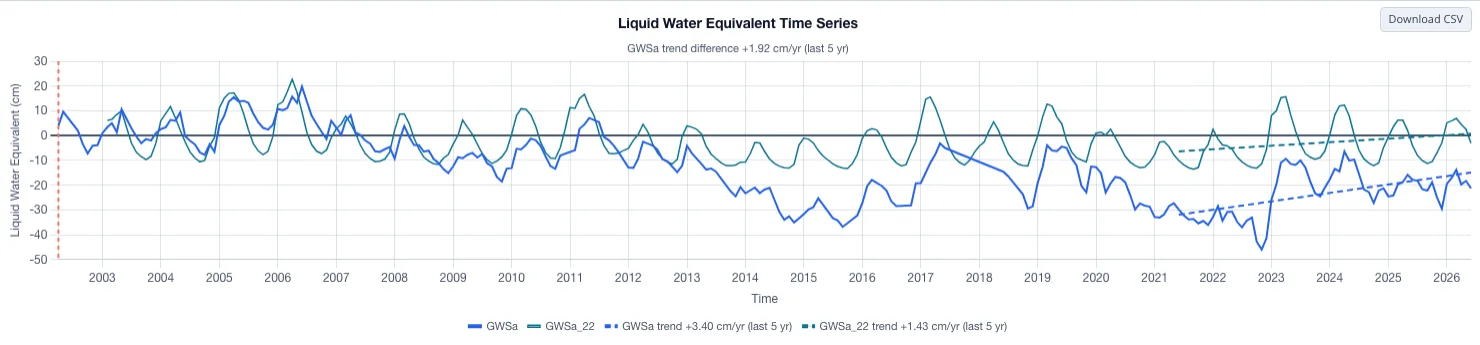
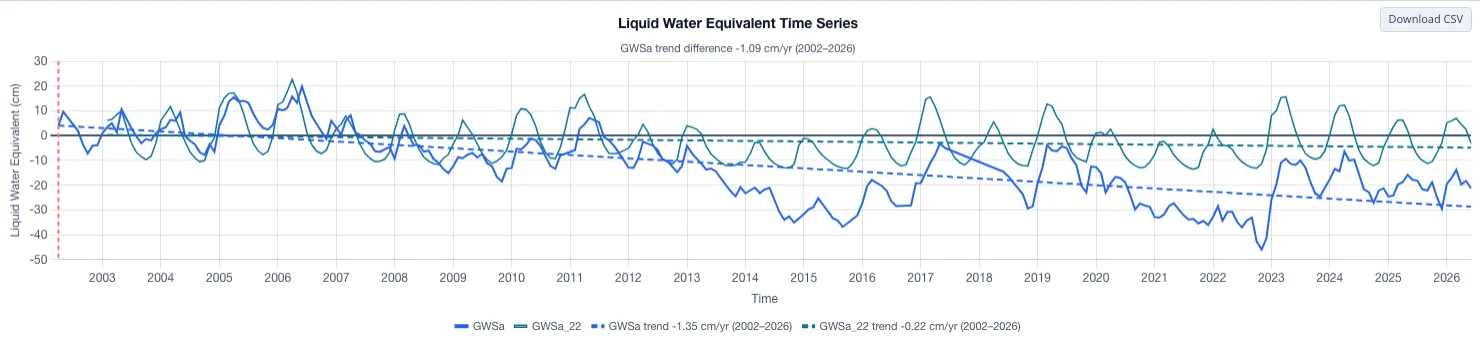
Document the whole-record default for the comparisons
The app now opens a comparison on the whole record in both views, so the
screenshots taken at five years and the text built around them no longer
describe what a reader sees.

Part 3's comparison page gains the reason rather than just the behaviour: the
±0.25 and ±1 boundaries came from the whole-record spread over 322 outlines, so
reading them over five years calls a third of regions extreme where they were
drawn to call a tenth. The window table is reordered to put the default first
and runs down to five years, which is still the right question if you want to
know whether the two have begun to diverge lately.

The global section now carries both maps. At the default the per-cell
difference has geography in it -- ice at both poles, northern India, the
Amazon; stepped down to five years the same map is speckle, which is the
clearest statement of why a cell is not a region. The cell-versus-region table
gains a whole-record row: 9% of aquifers and 15% of cells beyond ±1 cm/yr,
against 32% and 44% over five years.

The Central Valley chart is retaken at the default and reads −1.09 cm/yr
against the +1.92 it read over five years, which carries the window lesson
better as prose than the old figure did on its own.

Part 4's analysis page gains the two defaults and why each measure opens where
it does, including the number that keeps the trend on five years: over the
whole record ±0.5 and ±2 put 59 of 99 outlines in Static and empty Extreme
increase.
[…]

diff --git a/tools/make_screenshots.py b/tools/make_screenshots.py
@@ -221,12 +221,28 @@ def shot_diff_swing(pw) -> None:
 
 
 def shot_diff_global(pw) -> None:
-    """The same trend difference per cell. Both datasets have to be read for
-    every month of the record, so this one is slow."""
+    """The same trend difference per cell, at the window the global view opens
+    a comparison on. Both datasets have to be read for every month of the
+    record, so this one is slow."""
     b, pg = open_app(pw)
     go_global(pg)
     color_by(pg, "trend-difference", wait=LOAD * 5)
     save(pg, "app-diff-global")
+    b.close()
+
+
+def shot_diff_global_5yr(pw) -> None:
+    """The same map stepped down to five years, which is the reason the global
+    view does not open there: per cell the difference is mostly noise."""
+    b, pg = open_app(pw)
+    go_global(pg)
+    color_by(pg, "trend-difference", wait=LOAD * 5)
+    # Down from All to 5 yr, one step per window the record is long enough for.
+    for _ in range(4):
+        pg.locator("#analysis-window-down").click()
+        pg.wait_for_timeout(LOAD * 4)
+    assert pg.locator("#analysis-window-value").inner_text() == "5 yr"
+    save(pg, "app-diff-global-5yr")
     b.close()
 
 
@@ -387,6 +403,7 @@ SHOTS = {
     "diff-agreement": shot_diff_agreement,
     "diff-swing": shot_diff_swing,
     "diff-global": shot_diff_global,
+    "diff-global-5yr": shot_diff_global_5yr,
     "diff-chart": shot_diff_chart,
     "time-control": shot_time_control,
     "gap-fill-control": shot_gap_fill_control,

diff --git a/docs/grace/compare/exploring.es.md b/docs/grace/compare/exploring.es.md
@@ -22,13 +22,15 @@ datos publicados, las dos tendencias de la región mediana difieren en 0.27 cm/a
 a 0.69, y su ciclo estacional de GRACE oscila 0.73 veces lo que el de 2.2.
 
 Elegir una comparación activa **Also show GLDAS 2.2** (mostrar también GLDAS 2.2) en el panel de control y lo mantiene activado, de modo que el
-gráfico lleva ambas series para lo que selecciones a continuación. La vista regional colorea los contornos de las regiones, la vista global
+gráfico lleva ambas series para lo que selecciones a continuación, y pone la **Window** en todo el registro: comparar dos registros es una
+pregunta sobre los registros, y las clases de abajo se trazaron para el registro entero. Mover el selector sigue funcionando y entonces manda tu
+elección. La vista regional colorea los contornos de las regiones, la vista global
 colorea las celdas, y la medida sigue seleccionada al pasar de una a otra. [Análisis de tendencias y diferencias](../app/trends.md) da la
 mecánica: los límites de las clases, el registro mínimo que necesita una región y cómo se promedian sus celdas.
 
 ## El mapa de diferencia de tendencia { #the-trend-difference-map }
 
-![El conjunto Global Aquifers coloreado por la diferencia entre las tendencias de agua subterránea de cinco años de los dos conjuntos de datos](../../static/images/grace/app-diff-regions.webp)
+![El conjunto Global Aquifers coloreado por la diferencia entre las tendencias de agua subterránea de los dos conjuntos de datos sobre todo el registro](../../static/images/grace/app-diff-regions.webp)
 
 Cada región o celda se colorea por la tendencia de GRACE menos la de 2.2 sobre la ventana del encabezado, en cm/año. GRACE es siempre el operando
 izquierdo, sea cual sea el conjunto seleccionado en el panel, así que el signo de la diferencia nunca depende de otro control.
@@ -47,21 +49,22 @@ almacén de agua subterránea solo a través de la corrección mensual de GRACE,
 dirección contraria, donde GRACE tiene el almacenamiento subiendo más rápido. Sobre las 37 cuencas WHYMAP la tendencia de 2.2 es una mediana de
 0.26 de la de GRACE donde el almacenamiento cae y de 0.33 donde sube, así que ambos colores son el mismo efecto.
 
-La ventana importa aquí más que para una sola tendencia. Las ventanas cortas producen tendencias mayores, y la distancia entre los dos conjuntos
-crece con ellas: sobre los contornos de Global Aquifers la diferencia típica más que se duplica, de 0.26 cm/año sobre todo el registro a 0.59
-sobre los últimos cinco años. La clasificación lo sigue:
+Esos límites vienen del registro completo. Sobre los 322 contornos puntuados la diferencia mediana es 0.27 cm/año y el percentil 95 es 1.12, así
+que ±0.25 y ±1 están puestos para marcar como extrema aproximadamente una décima parte de las regiones. Acortar la ventana agranda ambas
+tendencias y con ellas su diferencia — sobre los contornos de Global Aquifers la diferencia típica más que se duplica, de 0.26 cm/año a 0.59 — y
+los mismos límites marcan entonces como extrema a una tercera parte:
 
 | Ventana | GRACE much lower | GRACE lower | Trends agree | GRACE higher | GRACE much higher |
 |:---|:---:|:---:|:---:|:---:|:---:|
-| últimos 5 años | 14 | 18 | 28 | 21 | 18 |
-| últimos 10 años | 8 | 19 | 37 | 20 | 15 |
-| últimos 15 años | 6 | 21 | 42 | 24 | 6 |
+| todo el registro (por defecto) | 5 | 15 | 52 | 23 | 4 |
 | últimos 20 años | 7 | 14 | 50 | 24 | 4 |
-| todo el registro | 5 | 15 | 52 | 23 | 4 |
+| últimos 15 años | 6 | 21 | 42 | 24 | 6 |
+| últimos 10 años | 8 | 19 | 37 | 20 | 15 |
+| últimos 5 años | 14 | 18 | 28 | 21 | 18 |
 
-52 de los 99 acuíferos coinciden sobre todo el registro y 28 sobre los últimos cinco años. Ambas lecturas son correctas para su ventana. Una
-región que cambia de clase al mover la ventana está diciendo que los dos conjuntos difieren sobre una oscilación reciente, que es un problema
-menor que diferir sobre la dirección a largo plazo.
+Ambas lecturas son correctas para su ventana, y una más corta es la pregunta adecuada si quieres saber si los dos conjuntos han empezado a
+divergir últimamente. Lee ahí los extremos con más escepticismo: una región que cambia de clase al acortar la ventana está diciendo que los dos
+difieren sobre una oscilación reciente, que es un problema menor que diferir sobre la dirección a largo plazo.
 
 ## El mapa de concordancia { #the-agreement-map }
 
@@ -123,6 +126,7 @@ La vista global responde las mismas tres preguntas por celda de 1°, y las respu
 
 | Proporción del conjunto en esta condición | Global Aquifers, 99 contornos | celdas de 1° |
 |:---|:---:|:---:|
+| diferencia de tendencia más allá de ±1 cm/año, todo el registro | 9% | 15% |
 | diferencia de tendencia más allá de ±1 cm/año, últimos 5 años | 32% | 44% |
 | correlación por debajo de 0 | 5% | 18% |
 | amplitud estacional de GRACE más de 1.25 veces la de 2.2 | 21% | 45% |
@@ -130,11 +134,18 @@ La vista global responde las mismas tres preguntas por celda de 1°, y las respu
 Una de cada seis celdas terrestres tiene los dos registros yendo opuestos, donde lo hacen cinco de los 99 acuíferos, y casi la mitad de todas las
 celdas tienen el ciclo de GRACE oscilando más que el de 2.2, donde el panorama regional es el contrario.
 
-![Cada celda terrestre coloreada por la diferencia entre las tendencias de agua subterránea de cinco años de los dos conjuntos de datos](../../static/images/grace/app-diff-global.webp)
+![Cada celda terrestre coloreada por la diferencia entre las tendencias de agua subterránea de los dos conjuntos de datos sobre todo el registro](../../static/images/grace/app-diff-global.webp)
 
-El mapa de arriba es lo que eso produce: moteado sobre casi toda la superficie terrestre, celdas rojas y azules alternándose en unos pocos
-cientos de kilómetros, y el único bloque grande de **Trends agree** tendido sobre el Sáhara y la península arábiga, donde ninguno de los dos
-registros se mueve mucho en cinco años.
+Con el valor por defecto el mapa tiene geografía: rojo intenso donde la ruta de GRACE lleva hielo, en Groenlandia, el Ártico canadiense y la
+Patagonia; rojo en el norte de la India, Oriente Medio y Siberia central; azul en el Amazonas, el Congo, el Sahel y el Zambeze. Bájalo a cinco
+años y casi todo eso desaparece:
+
+![El mismo mapa sobre los últimos cinco años, con celdas rojas y azules alternándose en casi toda la superficie terrestre](../../static/images/grace/app-diff-global-5yr.webp)
+
+Moteado sobre casi toda la superficie terrestre, rojo y azul alternándose en unos pocos cientos de kilómetros, y el único bloque grande de
+**Trends agree** tendido sobre el Sáhara y la península arábiga, donde ninguno de los dos registros se mueve mucho en cinco años. Dos pendientes
+ajustadas cada una a 60 meses y luego restadas dejan un número cuyo error es mayor que la diferencia que informa. Un promedio de área elimina casi
+todo eso, y por eso el mapa regional sí merece leerse a cinco años y este no.
 
 Una sola celda lleva el ruido mes a mes que elimina un promedio de área, y del lado de GRACE lleva además el factor de ganancia aplicado a un
 mascon de 3°, así que el valor de una celda descansa sobre la misma medición que el de sus vecinas (ver
@@ -143,14 +154,16 @@ están los patrones grandes, y la vista regional para cualquier cosa que quieras
 
 ## Leer una región frente a su gráfico { #reading-a-region-against-its-chart }
 
-![El Valle Central con la diferencia de tendencia activa: ambos conjuntos en el gráfico, cada uno con su recta ajustada sobre la ventana de cinco años](../../static/images/grace/app-diff-chart.webp)
+![El Valle Central con la diferencia de tendencia activa: ambos conjuntos en el gráfico, cada uno con su recta ajustada sobre todo el registro](../../static/images/grace/app-diff-chart.webp)
 
 Al hacer clic en una región, o en una celda de la vista global, se dibujan ambos conjuntos y se pone bajo el título del gráfico el número que
-hay detrás del color de esa región. El Valle Central de arriba marca "GWSa trend difference +1.92 cm/yr (last 5 yr)", con las dos rectas
-ajustadas de la leyenda en +3.40 y +1.43 cm/año: en los últimos cinco años ambos registros tienen el valle recuperándose de la sequía de
-2021–2022 y GRACE lo tiene recuperándose más del doble de rápido. Sobre todo el registro ese mismo valle tiene a GRACE perdiendo 1.37 cm/año
-frente a los 0.24 de 2.2 (ver [Donde difiere la tendencia](examples.md#where-the-trend-differs)), que es la lección de la ventana en una sola
-región.
+hay detrás del color de esa región. El Valle Central de arriba marca "GWSa trend difference −1.09 cm/yr (2002–2026)", con las dos rectas
+ajustadas de la leyenda en −1.35 y −0.22 cm/año: una cuenca en agotamiento serio en un registro frente a otra que baja suavemente en el otro,
+que es el caso que trabaja [Donde difiere la tendencia](examples.md#where-the-trend-differs).
+
+Baja esa misma región a cinco años y los tres números cambian de signo. GRACE marca +3.40 cm/año, 2.2 marca +1.43 y la diferencia es +1.92:
+ambos registros tienen el valle recuperándose de la sequía de 2021–2022, y GRACE lo tiene recuperándose más del doble de rápido. Ninguna de las
+dos lecturas es errónea. Responden preguntas distintas, y el valor por defecto responde a aquella para la que está la comparación.
 
 Bajo cualquiera de las dos medidas de tendencia cada serie recibe además su recta ajustada, discontinua. La concordancia y el cociente de
 amplitudes no tienen recta que dibujar, así que el gráfico informa la medida bajo su título y deja las series lisas.

diff --git a/docs/grace/compare/exploring.en.md b/docs/grace/compare/exploring.en.md
@@ -20,13 +20,15 @@ data cover, the median region's two trends differ by 0.27 cm/yr over the whole r
 seasonal cycle swings 0.73 times as far as 2.2's.
 
 Picking a comparison turns on **Also show GLDAS 2.2** in the control panel and holds it there, so the chart carries both series for whatever you
-click next. The regional view colors region outlines, the global view colors cells, and the measure stays selected when you move between them.
+click next, and sets the **Window** to the whole record — a comparison of two records is a question about the records, and the classes below were
+drawn for the whole of them. Stepping the window still works and your choice then stands. The regional view colors region outlines, the global
+view colors cells, and the measure stays selected when you move between them.
 [Trend and Difference Analysis](../app/trends.md) gives the mechanics: the class boundaries, the minimum record a region needs, and how a
 region's cells are averaged.
 
 ## The trend difference map
 
-![The Global Aquifers set colored by the difference between the two datasets' five-year groundwater trends](../../static/images/grace/app-diff-regions.webp)
+![The Global Aquifers set colored by the difference between the two datasets' groundwater trends over the whole record](../../static/images/grace/app-diff-regions.webp)
 
 Each region or cell is colored by the GRACE trend minus the 2.2 trend over the window in the header, in cm/yr. GRACE is always the left operand,
 whichever dataset the panel is set to, so the sign of the difference never depends on a control somewhere else.
@@ -45,21 +47,22 @@ groundwater store only through the monthly GRACE correction, spread across all o
 GRACE has storage rising faster. Across the 37 WHYMAP basins the 2.2 trend runs a median 0.26 of the GRACE one where storage is falling and
 0.33 where it is rising, so both colors are the same effect.
 
-The window matters more here than it does for a single trend. Shorter windows produce larger trends, and the gap between the two datasets grows
-with them: over the Global Aquifers outlines the typical difference more than doubles, from 0.26 cm/yr over the whole record to 0.59 over the
-last five years. The classification follows:
+Those boundaries come from the whole record. Across the 322 scored outlines the median difference is 0.27 cm/yr and the 95th percentile 1.12, so
+±0.25 and ±1 are set to call about a tenth of regions extreme. Shortening the window makes both trends larger and their difference larger with
+them — over the Global Aquifers outlines the typical difference more than doubles, from 0.26 cm/yr to 0.59 — and the same boundaries then call a
+third of them extreme:
 
 | Window | GRACE much lower | GRACE lower | Trends agree | GRACE higher | GRACE much higher |
 |:---|:---:|:---:|:---:|:---:|:---:|
-| last 5 years | 14 | 18 | 28 | 21 | 18 |
-| last 10 years | 8 | 19 | 37 | 20 | 15 |
-| last 15 years | 6 | 21 | 42 | 24 | 6 |
+| whole record (the default) | 5 | 15 | 52 | 23 | 4 |
 | last 20 years | 7 | 14 | 50 | 24 | 4 |
-| whole record | 5 | 15 | 52 | 23 | 4 |
+| last 15 years | 6 | 21 | 42 | 24 | 6 |
+| last 10 years | 8 | 19 | 37 | 20 | 15 |
+| last 5 years | 14 | 18 | 28 | 21 | 18 |
 
-52 of the 99 aquifers agree over the whole record and 28 over the last five years. Both readings are correct for their window. A region that
-changes class as you step the window is telling you that the two datasets differ about a recent swing, which is a smaller problem than
-differing about the long-term direction.
+Both readings are correct for their window, and a shorter one is the right question to ask if you want to know whether the two datasets have
+started to diverge lately. Read the extremes more skeptically there: a region that changes class as you shorten the window is telling you the two
+differ about a recent swing, which is a smaller problem than differing about the long-term direction.
 
 ## The agreement map
 
@@ -117,6 +120,7 @@ The global view answers the same three questions per 1° cell, and the answers c
 
 | Share of the set in this condition | Global Aquifers, 99 outlines | 1° land cells |
 |:---|:---:|:---:|
+| trend difference beyond ±1 cm/yr, whole record | 9% | 15% |
 | trend difference beyond ±1 cm/yr, last 5 years | 32% | 44% |
 | correlation below 0 | 5% | 18% |
 | GRACE seasonal swing more than 1.25 times 2.2's | 21% | 45% |
@@ -124,10 +128,18 @@ The global view answers the same three questions per 1° cell, and the answers c
 One land cell in six has the two records running opposite, where five of the 99 aquifers do, and nearly half of all cells have the GRACE cycle
 swinging harder than 2.2's, where the regional picture is the reverse.
 
-![Every land cell colored by the difference between the two datasets' five-year groundwater trends](../../static/images/grace/app-diff-global.webp)
+![Every land cell colored by the difference between the two datasets' groundwater trends over the whole record](../../static/images/grace/app-diff-global.webp)
 
-The map above is what that looks like: speckle over most of the land surface, red and blue cells alternating within a few hundred kilometres,
-and the one large block of **Trends agree** lying across the Sahara and the Arabian Peninsula, where neither record moves much in five years.
+At the default the map has geography in it: deep red where the GRACE route is carrying ice, in Greenland, the Canadian Arctic and Patagonia,
+red across northern India, the Middle East and central Siberia, blue across the Amazon, the Congo, the Sahel and the Zambezi. Step it down to
+five years and most of that goes:
+
+![The same map over the last five years, red and blue cells alternating across most of the land surface](../../static/images/grace/app-diff-global-5yr.webp)
+
+Speckle over most of the land surface, red and blue alternating within a few hundred kilometers, and the one large block of **Trends agree**
+lying across the Sahara and the Arabian Peninsula, where neither record moves much in five years. Two slopes each fitted to 60 months, then
+subtracted, leave a number whose error is larger than the difference it is reporting. An area average removes most of that error, so the same
+five-year window is readable over a region and not over a cell.
 
 A single cell carries the month-to-month noise that an area average removes, and on the GRACE side it also carries the gain factor applied to a
 3° mascon, so one cell's value rests on the same measurement as its neighbors (see
@@ -136,13 +148,16 @@ are, and the regional view for anything you mean to say about a particular aquif
 
 ## Reading a region against its chart
 
-![The Central Valley with the trend difference showing: both datasets on the chart, each with its fitted line over the five-year window](../../static/images/grace/app-diff-chart.webp)
+![The Central Valley with the trend difference showing: both datasets on the chart, each with its fitted line over the whole record](../../static/images/grace/app-diff-chart.webp)
 
 Clicking a region, or a cell in the global view, plots both datasets and puts the number behind that region's color under the chart title. The
-Central Valley above reads "GWSa trend difference +1.92 cm/yr (last 5 yr)", with the two fitted lines in the legend at +3.40 and +1.43 cm/yr:
-over the last five years both records have the valley recovering from the 2021–2022 drought and GRACE has it recovering more than twice as fast.
-Over the whole record the same valley has GRACE losing 1.37 cm/yr against 2.2's 0.24 (see
-[Where the trend differs](examples.md#where-the-trend-differs)), which is the window lesson in one region.
+Central Valley above reads "GWSa trend difference −1.09 cm/yr (2002–2026)", with the two fitted lines in the legend at −1.35 and −0.22 cm/yr: a
+basin in serious depletion on one record against one drifting gently down on the other, which is the case
+[Where the trend differs](examples.md#where-the-trend-differs) works through.
+
+Step that same region down to five years and all three numbers change sign. GRACE reads +3.40 cm/yr, 2.2 reads +1.43, and the difference is
++1.92 — both records have the valley recovering from the 2021–2022 drought, and GRACE has it recovering more than twice as fast. Neither reading
+is wrong. They answer different questions, and the default answers the one the comparison is for.
 
 Under either trend measure each series also gets its fitted line as a dashed line. Agreement and a swing ratio have no line to draw, so the
 chart reports the measure under its title and leaves the series plain.

diff --git a/docs/grace/app/trends.fr.md b/docs/grace/app/trends.fr.md
@@ -9,12 +9,12 @@ l’application ; **Hide** la désactive et rend à la carte l’anomalie mensue
 **Color by**, à côté du bouton, choisit ce nombre. Une mesure travaille sur le jeu de données sélectionné, et trois comparent les deux jeux entre
 eux :
 
-| Color by | Ce qu’elle calcule | Les deux jeux | Fenêtre |
+| Color by | Ce qu’elle calcule | Les deux jeux | S’ouvre sur |
 |:---|:---|:---:|:---:|
-| Trend in GWSa | la pente par moindres carrés des valeurs mensuelles, en cm/an | non | oui |
-| GRACE vs GLDAS 2.2: trend difference | la pente GRACE moins la pente 2.2 | oui | oui |
-| GRACE vs GLDAS 2.2: agreement | la corrélation de Pearson des deux séries mensuelles | oui | non |
-| GRACE vs GLDAS 2.2: seasonal swing | l’amplitude saisonnière GRACE divisée par celle de 2.2 | oui | non |
+| Trend in GWSa | la pente par moindres carrés des valeurs mensuelles, en cm/an | non | les 5 dernières années |
+| GRACE vs GLDAS 2.2: trend difference | la pente GRACE moins la pente 2.2 | oui | l’enregistrement entier |
+| GRACE vs GLDAS 2.2: agreement | la corrélation de Pearson des deux séries mensuelles | oui | l’enregistrement entier |
+| GRACE vs GLDAS 2.2: seasonal swing | l’amplitude saisonnière GRACE divisée par celle de 2.2 | oui | l’enregistrement entier |
 
 L’entrée de tendance nomme ce qui est affiché : elle se lit **Trend in GWSa** sur la couche par défaut et **Trend in SMa** sur l’humidité du sol.
 Les trois comparaisons n’apparaissent que lorsque l’eau souterraine (GWSa) est affichée, car c’est la seule grandeur que les deux jeux produisent
@@ -90,6 +90,16 @@ ou **All** pour l’ensemble de la série depuis 2002. La classification et la l
 La concordance et l’amplitude saisonnière utilisent toujours l’enregistrement entier : le sélecteur s’estompe donc sous ces deux mesures. Une
 corrélation sur cinq ans pose une autre question qu’une corrélation sur vingt ans, et un cycle saisonnier estimé sur cinq ans repose sur cinq
 valeurs par mois du calendrier. Le réglage est conservé pendant que le sélecteur est estompé et revient dès que vous retournez à une tendance.
+
+L’écart de tendance, lui, utilise bien le sélecteur, mais il s’ouvre sur l’enregistrement entier et non sur les cinq ans par lesquels s’ouvre une
+tendance, parce que les limites de ses classes ont été tracées à partir de la dispersion sur l’enregistrement entier : ±0,25 et ±1 cm/an
+signalent comme extrême environ un dixième des régions sur l’enregistrement entier et environ un tiers sur cinq ans. Déplacer la fenêtre reste le
+bon geste si vous voulez savoir si les deux jeux de données ont commencé à diverger récemment, et une fois le sélecteur déplacé rien ne le
+ramène.
+
+La tendance garde la fenêtre courte par défaut, et ce sont ses propres limites qui l’expliquent. Sur l’enregistrement entier, ±0,5 et ±2 cm/an
+placent 59 des 99 contours de Global Aquifers dans **Static** et laissent **Extreme increase** vide, car une pente ajustée sur 24 ans gomme les
+retournements sur lesquels porte généralement la question d’un gestionnaire. Sur cinq ans, ces mêmes 99 se répartissent en 11/22/34/28/4.
 
 Dans la plupart des régions, le stockage oscille entre années humides et années sèches ; une fenêtre courte peut donc ne saisir qu’une
 oscillation au lieu de l’évolution de long terme. Dans la Vallée Centrale de Californie, le stockage des eaux souterraines a diminué de 2002

diff --git a/docs/grace/app/trends.es.md b/docs/grace/app/trends.es.md
@@ -9,12 +9,12 @@ aplicación; **Hide** lo desactiva y devuelve el mapa a la anomalía mensual.
 **Color by** (colorear por), junto al botón, elige ese número. Una medida trabaja sobre el conjunto de datos que esté seleccionado, y tres
 comparan los dos conjuntos entre sí:
 
-| Color by | Qué calcula | Ambos conjuntos | Ventana |
+| Color by | Qué calcula | Ambos conjuntos | Abre sobre |
 |:---|:---|:---:|:---:|
-| Trend in GWSa | la pendiente por mínimos cuadrados de los valores mensuales, en cm/año | no | sí |
-| GRACE vs GLDAS 2.2: trend difference | la pendiente de GRACE menos la de 2.2 | sí | sí |
-| GRACE vs GLDAS 2.2: agreement | la correlación de Pearson de las dos series mensuales | sí | no |
-| GRACE vs GLDAS 2.2: seasonal swing | la amplitud estacional de GRACE dividida por la de 2.2 | sí | no |
+| Trend in GWSa | la pendiente por mínimos cuadrados de los valores mensuales, en cm/año | no | los últimos 5 años |
+| GRACE vs GLDAS 2.2: trend difference | la pendiente de GRACE menos la de 2.2 | sí | todo el registro |
+| GRACE vs GLDAS 2.2: agreement | la correlación de Pearson de las dos series mensuales | sí | todo el registro |
+| GRACE vs GLDAS 2.2: seasonal swing | la amplitud estacional de GRACE dividida por la de 2.2 | sí | todo el registro |
 
 La entrada de tendencia nombra lo que esté en pantalla, así que dice **Trend in GWSa** en la capa por defecto y **Trend in SMa** en humedad del
 suelo. Las tres comparaciones solo aparecen mientras se muestra agua subterránea (GWSa), porque es la única magnitud que ambos conjuntos obtienen
@@ -91,6 +91,15 @@ registro desde 2002. La clasificación y la leyenda se actualizan cuando lo camb
 La concordancia y la amplitud estacional usan siempre todo el registro, así que el selector se atenúa con esas dos. Una correlación sobre cinco
 años plantea una pregunta distinta de una sobre veinte, y un ciclo estacional estimado a partir de cinco años descansa sobre cinco valores por
 mes del calendario. El ajuste se conserva mientras el selector está atenuado y vuelve cuando regresas a una tendencia.
+
+La diferencia de tendencia sí usa el selector, pero abre sobre todo el registro y no sobre los cinco años con los que abre una tendencia, porque
+los límites de sus clases se trazaron a partir de la dispersión del registro completo: ±0.25 y ±1 cm/año marcan como extrema una décima parte de
+las regiones sobre el registro entero y una tercera parte sobre cinco años. Mover la ventana sigue siendo lo correcto si quieres saber si los dos
+conjuntos han empezado a divergir últimamente, y una vez que mueves el selector nada lo devuelve.
+
+La tendencia conserva el valor corto por defecto, y la razón son sus propios límites. Sobre todo el registro, ±0.5 y ±2 cm/año dejan 59 de los 99
+contornos de Global Aquifers en **Static** y vacían **Extreme increase**, porque una pendiente ajustada sobre 24 años promedia y borra los
+cambios de signo por los que suele preguntar un gestor. Sobre cinco años esos mismos 99 se reparten 11/22/34/28/4.
 
 En la mayoría de las regiones el almacenamiento oscila entre años húmedos y secos, así que una ventana corta puede captar una sola oscilación en
 lugar de la dirección de largo plazo. En el Valle Central de California, el almacenamiento de agua subterránea disminuyó desde 2002 hasta la

diff --git a/docs/grace/app/trends.en.md b/docs/grace/app/trends.en.md
@@ -9,12 +9,12 @@ the map to the monthly anomaly.
 **Color by**, beside the button, chooses the number. One measure works on whichever dataset is selected, and three compare the two datasets
 against each other:
 
-| Color by | What it computes | Both datasets | Window |
+| Color by | What it computes | Both datasets | Opens on |
 |:---|:---|:---:|:---:|
-| Trend in GWSa | least-squares slope of the monthly values, in cm/yr | no | yes |
-| GRACE vs GLDAS 2.2: trend difference | the GRACE slope minus the 2.2 slope | yes | yes |
-| GRACE vs GLDAS 2.2: agreement | Pearson correlation of the two monthly series | yes | no |
-| GRACE vs GLDAS 2.2: seasonal swing | the GRACE seasonal swing divided by 2.2's | yes | no |
+| Trend in GWSa | least-squares slope of the monthly values, in cm/yr | no | last 5 years |
+| GRACE vs GLDAS 2.2: trend difference | the GRACE slope minus the 2.2 slope | yes | the whole record |
+| GRACE vs GLDAS 2.2: agreement | Pearson correlation of the two monthly series | yes | the whole record |
+| GRACE vs GLDAS 2.2: seasonal swing | the GRACE seasonal swing divided by 2.2's | yes | the whole record |
 
 The trend entry names whatever is displayed, so it reads **Trend in GWSa** on the default layer and **Trend in SMa** on soil moisture. The three
 comparisons appear only while groundwater (GWSa) is displayed, because that is the only quantity both datasets derive in their own right: the
@@ -87,6 +87,15 @@ whole record since 2002. The classification and the legend update when you chang
 Agreement and the seasonal swing always use the whole record, so the stepper dims under those two. A correlation over five years asks a
 different question from one over twenty, and a seasonal cycle estimated from five years rests on five values per calendar month. The setting is
 kept while the stepper is dimmed and comes back when you return to a trend.
+
+The trend difference does use the stepper, but it opens on the whole record rather than on the five years a trend opens on, because its class
+boundaries were drawn from the whole-record spread: ±0.25 and ±1 cm/yr call about a tenth of regions extreme over the full record and about a
+third of them over five years. Stepping the window is still the right move if you want to know whether the two datasets have begun to diverge
+lately, and once you move the stepper nothing moves it back.
+
+The trend keeps the shorter default, and its own boundaries are why. Over the whole record ±0.5 and ±2 cm/yr put 59 of the 99 Global Aquifers
+outlines in **Static** and leave **Extreme increase** empty, because a slope fitted across 24 years averages away the reversals a manager is
+usually asking about. Over five years the same 99 split 11/22/34/28/4.
 
 Storage in most regions swings between wet and dry years, so a short window can capture one swing rather than the long-term direction. In
 California's Central Valley, groundwater storage declined from 2002 through the drought of 2021–2022, then recovered partly after the very wet

diff --git a/docs/grace/app/global-view.fr.md b/docs/grace/app/global-view.fr.md
@@ -55,10 +55,11 @@ Avec l’eau souterraine affichée, **Color by** propose aussi les trois compara
 mailles selon l’ampleur du désaccord entre GRACE et GLDAS 2.2 à cet endroit. En calculer une lit l’enregistrement entier des deux jeux : cela
 prend donc quelques secondes de plus qu’une tendance.
 
-![Chaque maille terrestre colorée par l’écart entre les tendances d’eau souterraine sur cinq ans des deux jeux de données](../../static/images/grace/app-diff-global.webp)
+![Chaque maille terrestre colorée par l’écart entre les tendances d’eau souterraine des deux jeux de données sur l’enregistrement entier](../../static/images/grace/app-diff-global.webp)
 
-Maille par maille, ces comparaisons sont bruitées, comme le montre la carte ci-dessus. Servez-vous-en pour voir où sont les grands motifs, et de
-la vue régionale pour dire quoi que ce soit d’un aquifère donné.
+Une comparaison s’ouvre sur l’enregistrement entier et non sur les cinq ans par lesquels s’ouvre une tendance, car maille par maille un écart sur
+cinq ans n’est guère que du bruit (voir [Une maille n’est pas une région](../compare/exploring.md#a-cell-is-not-a-region)). Lisez ces cartes pour
+voir où sont les grands motifs, et la vue régionale pour tout ce qui concerne un aquifère donné.
 
 Voir [Analyse des Tendances et des Écarts](trends.md) pour le calcul de chaque nombre et le choix de la fenêtre, et
 [Explorer les écarts dans l’application](../compare/exploring.md) pour la lecture des cartes de comparaison.

diff --git a/docs/grace/app/global-view.es.md b/docs/grace/app/global-view.es.md
@@ -54,10 +54,11 @@ Con el agua subterránea en pantalla, **Color by** ofrece además las tres compa
 colorea las mismas celdas según cuánto discrepan GRACE y GLDAS 2.2 ahí. Calcular una lee todo el registro de ambos conjuntos, así que tarda unos
 segundos más que una tendencia.
 
-![Cada celda terrestre coloreada por la diferencia entre las tendencias de agua subterránea de cinco años de los dos conjuntos de datos](../../static/images/grace/app-diff-global.webp)
+![Cada celda terrestre coloreada por la diferencia entre las tendencias de agua subterránea de los dos conjuntos de datos sobre todo el registro](../../static/images/grace/app-diff-global.webp)
 
-Por celda esas comparaciones son ruidosas, como muestra el mapa de arriba. Úsalas para ver dónde están los patrones grandes y la vista regional
-para decir algo sobre un acuífero concreto.
+Una comparación abre sobre todo el registro y no sobre los cinco años con los que abre una tendencia, porque por celda una diferencia de cinco
+años es casi solo ruido (ver [Una celda no es una región](../compare/exploring.md#a-cell-is-not-a-region)). Lee estos mapas para ver dónde están
+los patrones grandes, y la vista regional para cualquier cosa sobre un acuífero concreto.
 
 Ver [Análisis de Tendencias y Diferencias](trends.md) para saber cómo se calcula cada número y cómo elegir la ventana, y
 [Explorar las diferencias en la aplicación](../compare/exploring.md) para saber cómo leer los mapas de comparación.

diff --git a/docs/grace/app/global-view.en.md b/docs/grace/app/global-view.en.md
@@ -51,10 +51,11 @@ different land masks and start in different years.
 With groundwater displayed, **Color by** also offers the three comparisons between the two datasets, and each of those colors the same cells by
 how far GRACE and GLDAS 2.2 disagree there. Computing one reads both datasets' whole records, so it takes a few seconds longer than a trend.
 
-![Every land cell colored by the difference between the two datasets' five-year groundwater trends](../../static/images/grace/app-diff-global.webp)
+![Every land cell colored by the difference between the two datasets' groundwater trends over the whole record](../../static/images/grace/app-diff-global.webp)
 
-Per cell those comparisons are noisy, as the map above shows. Use them to see where the large patterns are and the regional view to say anything
-about a particular aquifer.
+A comparison opens on the whole record rather than on the five years a trend opens on, because per cell a five-year difference is mostly noise
+(see [A cell is not a region](../compare/exploring.md#a-cell-is-not-a-region)). Read these maps for where the large patterns are and the regional
+view for anything about a particular aquifer.
 
 See [Trend and Difference Analysis](trends.md) for how each number is computed and how to choose the window, and
 [Exploring the Differences in the App](../compare/exploring.md) for how to read the comparison maps.
